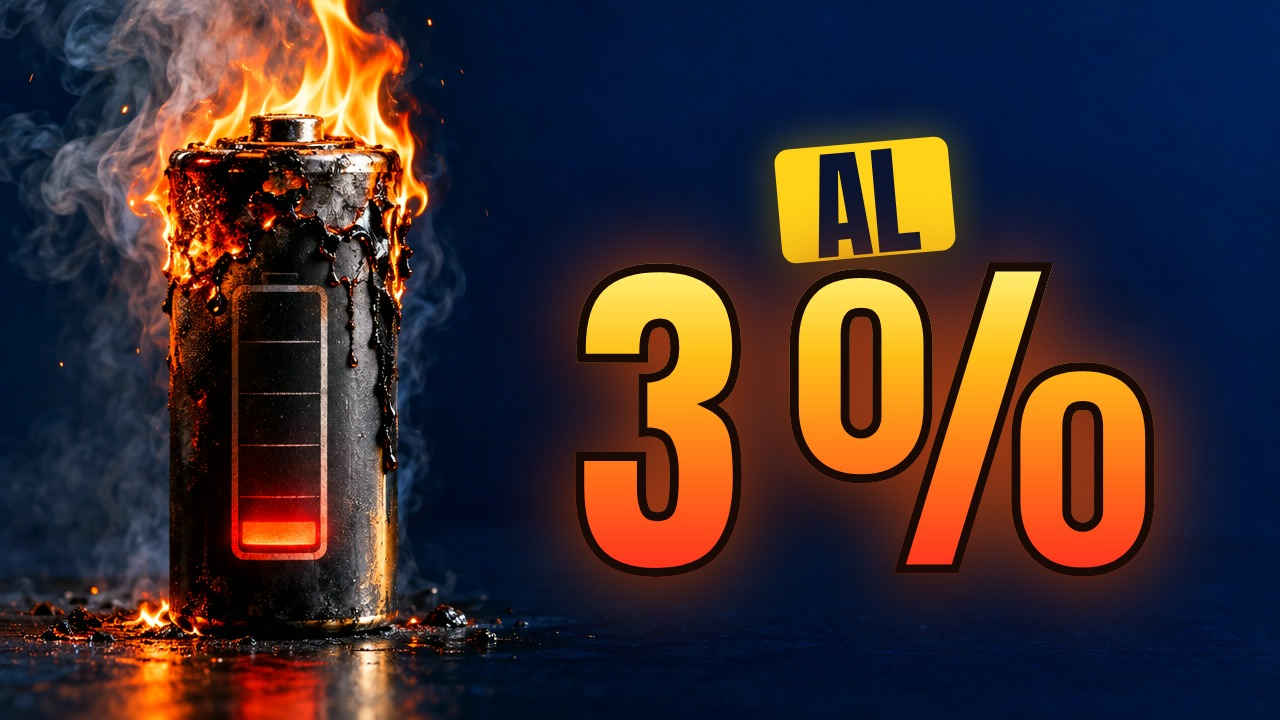
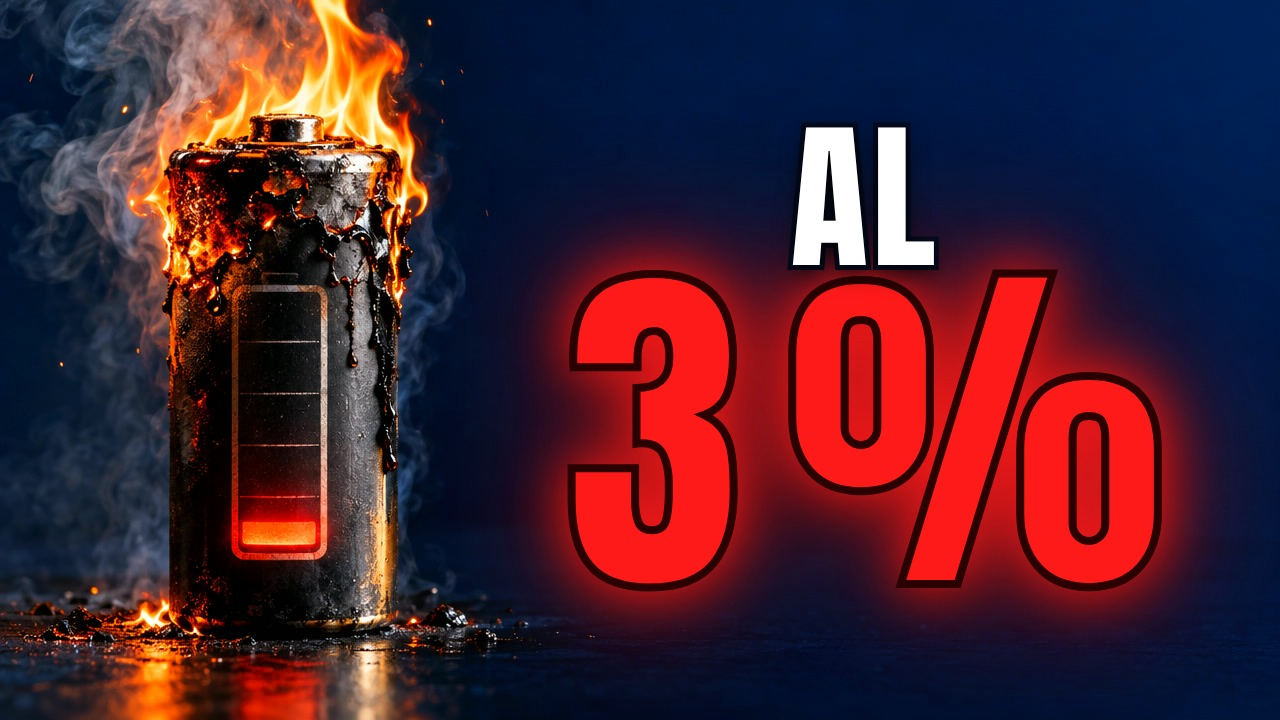
Miniatura 3: versión final en blanco y rojo vivo, centrada (opción D)
Claude-Session: https://claude.ai/code/session_01SpKRvRHgkYxyAMdM2ogfpw

Changed region(s): [[0.4062, 0.1528, 0.9688, 0.9167]]

diff --git a/src/burnout/Thumbs2.tsx b/src/burnout/Thumbs2.tsx
@@ -82,8 +82,8 @@ const D5 = () => (
 
 const DESIGNS = [D1, D2, D3, D4, D5];
 export const Thumb2: React.FC<{n: number}> = ({n}) => {
-  // la 3 usa el texto reacomodado elegido (opción B: etiqueta amarilla + «3 %» con degradado de fuego)
-  if (n === 3) return <Thumb3Opt v="b" />;
+  // la 3 usa el texto elegido por el creador (opción D: blanco + rojo vivo, centrado en el espacio libre)
+  if (n === 3) return <Thumb3Opt v="d" />;
   const D = DESIGNS[n - 1];
   return (
     <AbsoluteFill style={{background: '#0b1a3a'}}>
@@ -136,7 +136,15 @@ const O3C = () => (
     </div>
   </div>
 );
-const OPTS: Record<string, React.FC> = {a: O3A, b: O3B, c: O3C};
+// D · formato de la primera versión (blanco + rojo), centrado y con colores más vivos (elegida por el creador)
+const VIVID_RED = '#FF1A1A';
+const O3D = () => (
+  <div style={AREA}>
+    <div style={{position: 'relative', zIndex: 2, fontSize: 160, color: '#FFFFFF', letterSpacing: 4, paintOrder: 'stroke fill', WebkitTextStroke: '10px #050b1f', textShadow: '0 8px 22px rgba(0,0,0,0.75)'}}>AL</div>
+    <div style={{fontSize: 360, color: VIVID_RED, WebkitTextStroke: '8px #2a0000', filter: `drop-shadow(0 0 28px ${VIVID_RED}) drop-shadow(0 0 60px rgba(255,26,26,0.6)) drop-shadow(0 10px 20px rgba(0,0,0,0.7))`}}>{`3${NB}%`}</div>
+  </div>
+);
+const OPTS: Record<string, React.FC> = {a: O3A, b: O3B, c: O3C, d: O3D};
 export const Thumb3Opt: React.FC<{v: string}> = ({v}) => {
   const D = OPTS[v];
   return (

diff --git a/src/Root.tsx b/src/Root.tsx
@@ -104,7 +104,7 @@ export const Root: React.FC = () => (
     {[1, 2, 3, 4, 5].map((n) => (
       <Composition key={`bv${n}`} id={`NoEsPerezaMiniaturaV2-${n}`} component={BurnoutThumb2} defaultProps={{n}} durationInFrames={1} fps={30} width={1280} height={720} />
     ))}
-    {['a', 'b', 'c'].map((v) => (
+    {['a', 'b', 'c', 'd'].map((v) => (
       <Composition key={`b3${v}`} id={`NoEsPerezaMiniatura3-${v}`} component={BurnoutThumb3Opt} defaultProps={{v}} durationInFrames={1} fps={30} width={1280} height={720} />
     ))}
   </>

diff --git a/entregas/no-es-pereza-es-burnout/04_miniaturas.md b/entregas/no-es-pereza-es-burnout/04_miniaturas.md
@@ -161,3 +161,5 @@ Hay 3 opciones en `miniaturas/v2/`:
 - `opcion-c`: todo en una línea, con una barra de batería casi vacía.
 
 **Título con el que combina:** «Le dicen flojera, pero es agotamiento: 6 señales».
+
+**Versión final (elegida por el creador):** `opcion-d`, que ya es la principal: `miniatura_3_al-3.jpg`. Mantiene el formato de la primera versión, con «AL» en blanco puro arriba y «3 %» en rojo intenso (`#FF1A1A`) con resplandor rojo. Va centrada en el espacio libre a la derecha de la pila. Las opciones A, B y C quedan como alternativas.
